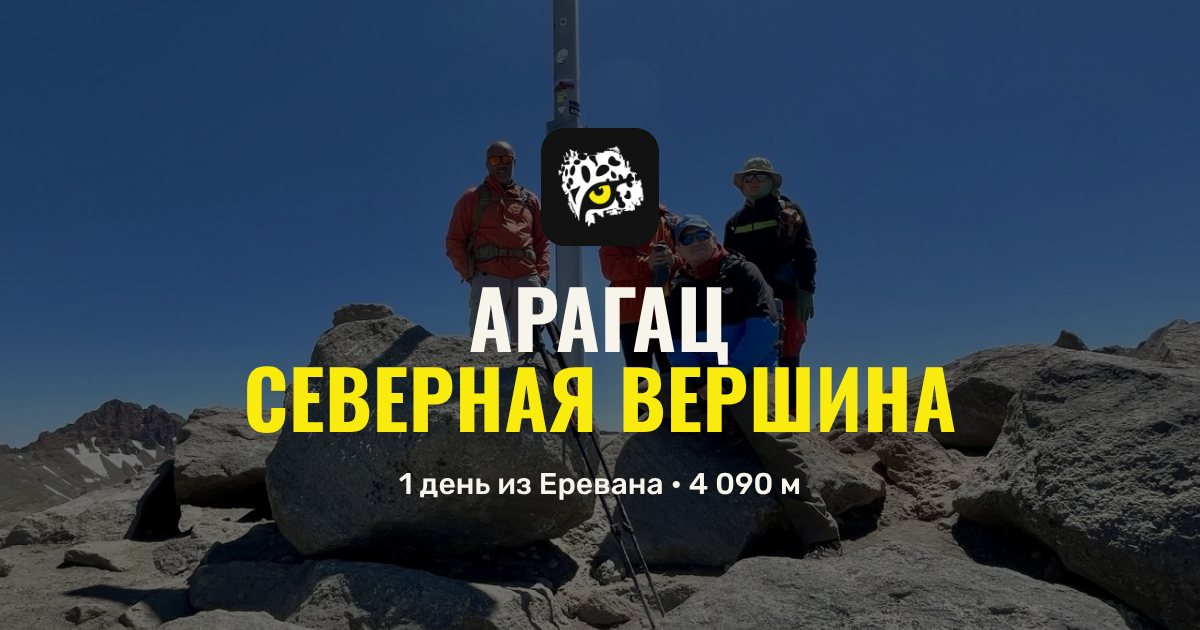
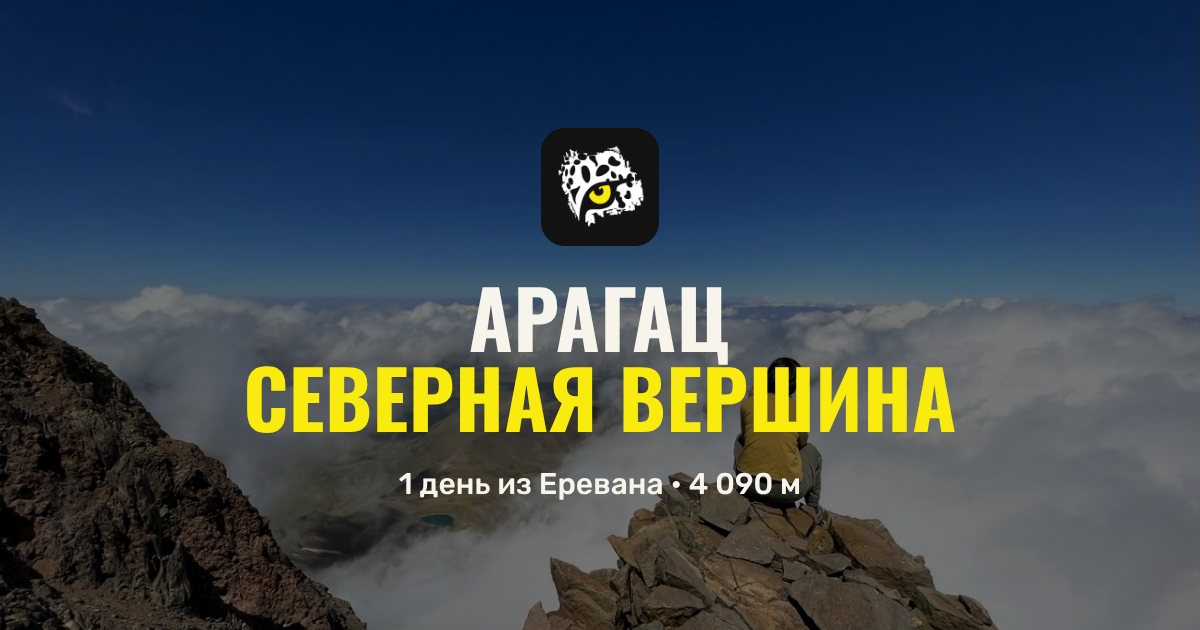
Aragats North: real photos from the climb (hero, day 1-2, season), hero clip plays once
Claude-Session: https://claude.ai/code/session_01UELaXKaEtKLHJMR8bpMREh

diff --git a/aragats/index.html b/aragats/index.html
@@ -217,7 +217,7 @@ details p{margin-top:10px;color:var(--muted);max-width:62ch}
 </div></header>
 
 <section class="hero" id="top">
-  <div class="hero-media" aria-hidden="true"><img src="img/ridge.jpg" alt="" style="object-position:50% 60%"><video src="vid/hero.mp4" muted loop playsinline preload="metadata"></video></div>
+  <div class="hero-media" aria-hidden="true"><img src="img/above_clouds.jpg" alt="" style="object-position:60% 50%"><video src="vid/hero.mp4" muted playsinline preload="metadata"></video></div>
   <div class="wrap">
     <span class="alt"><span lang="ru">Из Еревана · 1 день · июнь — октябрь</span><span lang="en">From Yerevan · 1 day · June — October</span><span lang="hy">Երևանից · 1 օր · հունիս — հոկտեմբեր</span></span>
     <h1><span lang="ru">Арагац<br><em>Северная</em></span><span lang="en">Aragats<br><em>North peak</em></span><span lang="hy">Արագած<br><em>Հյուսիսային</em></span></h1>
@@ -240,7 +240,7 @@ details p{margin-top:10px;color:var(--muted);max-width:62ch}
   <div class="days">
     <article class="day">
       <div class="media">
-        <figure><span class="hv"><img src="img/approach.jpg" alt="Группа поднимается по северным склонам Арагаца" loading="lazy" style="aspect-ratio:3/2"><video src="vid/camp.mp4" muted loop playsinline preload="none" aria-hidden="true"></video><i aria-hidden="true"></i></span></figure>
+        <figure><span class="hv"><img src="img/north_slope.jpg" alt="Северный склон Арагаца, облака накрывают гребень" loading="lazy" style="aspect-ratio:3/2"><video src="vid/camp.mp4" muted loop playsinline preload="none" aria-hidden="true"></video><i aria-hidden="true"></i></span></figure>
       </div>
       <div>
         <div class="num">01</div>
@@ -254,7 +254,7 @@ details p{margin-top:10px;color:var(--muted);max-width:62ch}
     </article>
     <article class="day">
       <div class="media">
-        <figure><span class="hv"><img src="img/snowfield.jpg" alt="Участница на склоне Арагаца у снежника" loading="lazy" style="aspect-ratio:3/2"><video src="vid/crater.mp4" muted loop playsinline preload="none" aria-hidden="true"></video><i aria-hidden="true"></i></span></figure>
+        <figure><span class="hv"><img src="img/ridge_top.jpg" alt="На гребне Северной вершины, впереди вершинный крест" loading="lazy" style="aspect-ratio:3/2"><video src="vid/crater.mp4" muted loop playsinline preload="none" aria-hidden="true"></video><i aria-hidden="true"></i></span></figure>
       </div>
       <div>
         <div class="num">02</div>
@@ -285,7 +285,7 @@ details p{margin-top:10px;color:var(--muted);max-width:62ch}
 </div></section>
 
 <section class="next" id="season"><div class="wrap">
-  <figure style="margin:0"><img src="img/peaks.jpg" alt="Вершины Арагаца над снежником" loading="lazy" style="aspect-ratio:4/3"></figure>
+  <figure style="margin:0"><img src="img/crater_spires.jpg" alt="Скальные зубцы над кратером Арагаца в тумане" loading="lazy" style="aspect-ratio:4/3"></figure>
   <div>
     <span class="eyebrow"><span lang="ru">Когда</span><span lang="en">When</span><span lang="hy">Երբ</span></span>
     <h2 class="h2"><span lang="ru">Лето — без снаряжения, зима — на снегоступах</span><span lang="en">Summer without gear, winter on snowshoes</span><span lang="hy">Ամռանը՝ առանց հանդերձանքի, ձմռանը՝ ձնագնացներով</span></h2>

diff --git a/tools/newtours/aragats_body.html b/tools/newtours/aragats_body.html
@@ -4,7 +4,7 @@
 </div></header>
 
 <section class="hero" id="top">
-  <div class="hero-media" aria-hidden="true"><img src="img/ridge.jpg" alt="" style="object-position:50% 60%"><video src="vid/hero.mp4" muted loop playsinline preload="metadata"></video></div>
+  <div class="hero-media" aria-hidden="true"><img src="img/above_clouds.jpg" alt="" style="object-position:60% 50%"><video src="vid/hero.mp4" muted playsinline preload="metadata"></video></div>
   <div class="wrap">
     <span class="alt"><span lang="ru">Из Еревана · 1 день · июнь — октябрь</span><span lang="en">From Yerevan · 1 day · June — October</span><span lang="hy">Երևանից · 1 օր · հունիս — հոկտեմբեր</span></span>
     <h1><span lang="ru">Арагац<br><em>Северная</em></span><span lang="en">Aragats<br><em>North peak</em></span><span lang="hy">Արագած<br><em>Հյուսիսային</em></span></h1>
@@ -27,7 +27,7 @@
   <div class="days">
     <article class="day">
       <div class="media">
-        <figure><span class="hv"><img src="img/approach.jpg" alt="Группа поднимается по северным склонам Арагаца" loading="lazy" style="aspect-ratio:3/2"><video src="vid/camp.mp4" muted loop playsinline preload="none" aria-hidden="true"></video><i aria-hidden="true"></i></span></figure>
+        <figure><span class="hv"><img src="img/north_slope.jpg" alt="Северный склон Арагаца, облака накрывают гребень" loading="lazy" style="aspect-ratio:3/2"><video src="vid/camp.mp4" muted loop playsinline preload="none" aria-hidden="true"></video><i aria-hidden="true"></i></span></figure>
       </div>
       <div>
         <div class="num">01</div>
@@ -41,7 +41,7 @@
     </article>
     <article class="day">
       <div class="media">
-        <figure><span class="hv"><img src="img/snowfield.jpg" alt="Участница на склоне Арагаца у снежника" loading="lazy" style="aspect-ratio:3/2"><video src="vid/crater.mp4" muted loop playsinline preload="none" aria-hidden="true"></video><i aria-hidden="true"></i></span></figure>
+        <figure><span class="hv"><img src="img/ridge_top.jpg" alt="На гребне Северной вершины, впереди вершинный крест" loading="lazy" style="aspect-ratio:3/2"><video src="vid/crater.mp4" muted loop playsinline preload="none" aria-hidden="true"></video><i aria-hidden="true"></i></span></figure>
       </div>
       <div>
         <div class="num">02</div>
@@ -72,7 +72,7 @@
 </div></section>
 
 <section class="next" id="season"><div class="wrap">
-  <figure style="margin:0"><img src="img/peaks.jpg" alt="Вершины Арагаца над снежником" loading="lazy" style="aspect-ratio:4/3"></figure>
+  <figure style="margin:0"><img src="img/crater_spires.jpg" alt="Скальные зубцы над кратером Арагаца в тумане" loading="lazy" style="aspect-ratio:4/3"></figure>
   <div>
     <span class="eyebrow"><span lang="ru">Когда</span><span lang="en">When</span><span lang="hy">Երբ</span></span>
     <h2 class="h2"><span lang="ru">Лето — без снаряжения, зима — на снегоступах</span><span lang="en">Summer without gear, winter on snowshoes</span><span lang="hy">Ամռանը՝ առանց հանդերձանքի, ձմռանը՝ ձնագնացներով</span></h2>
